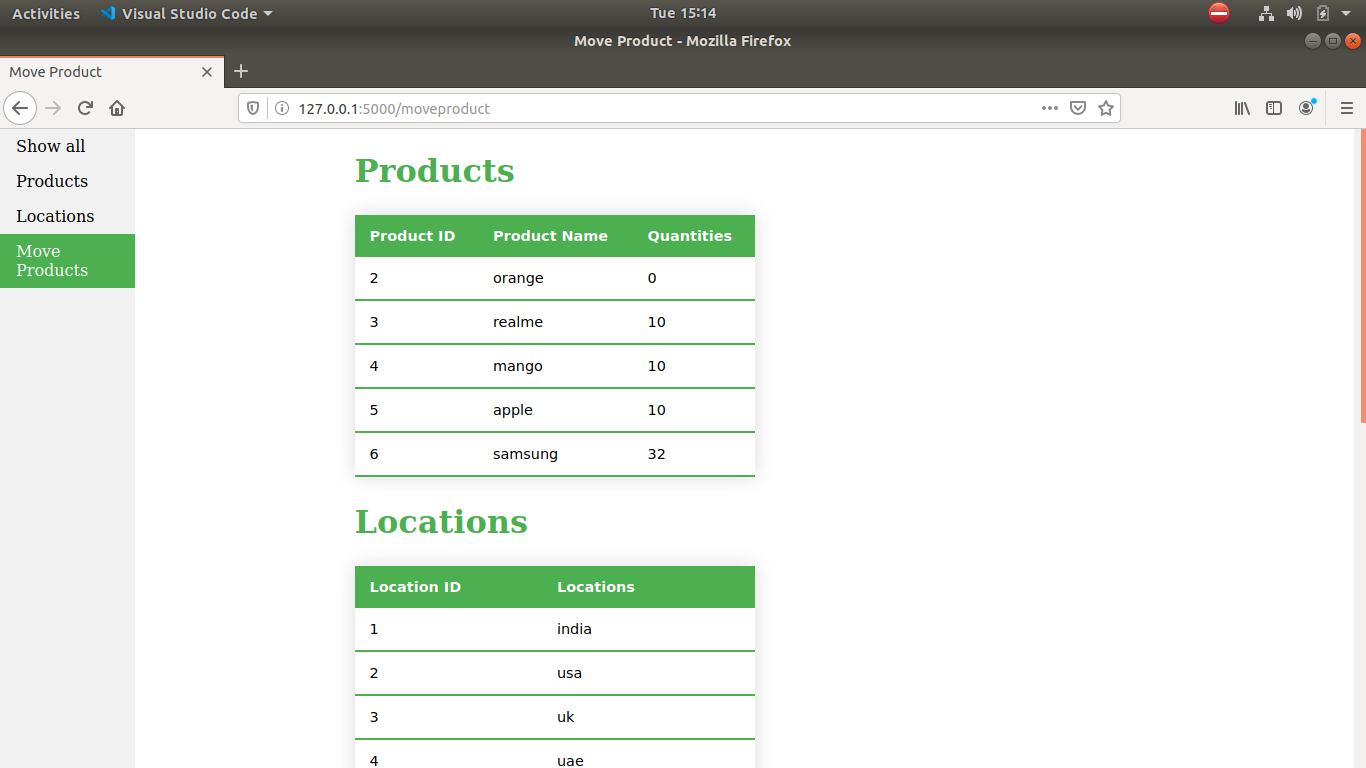
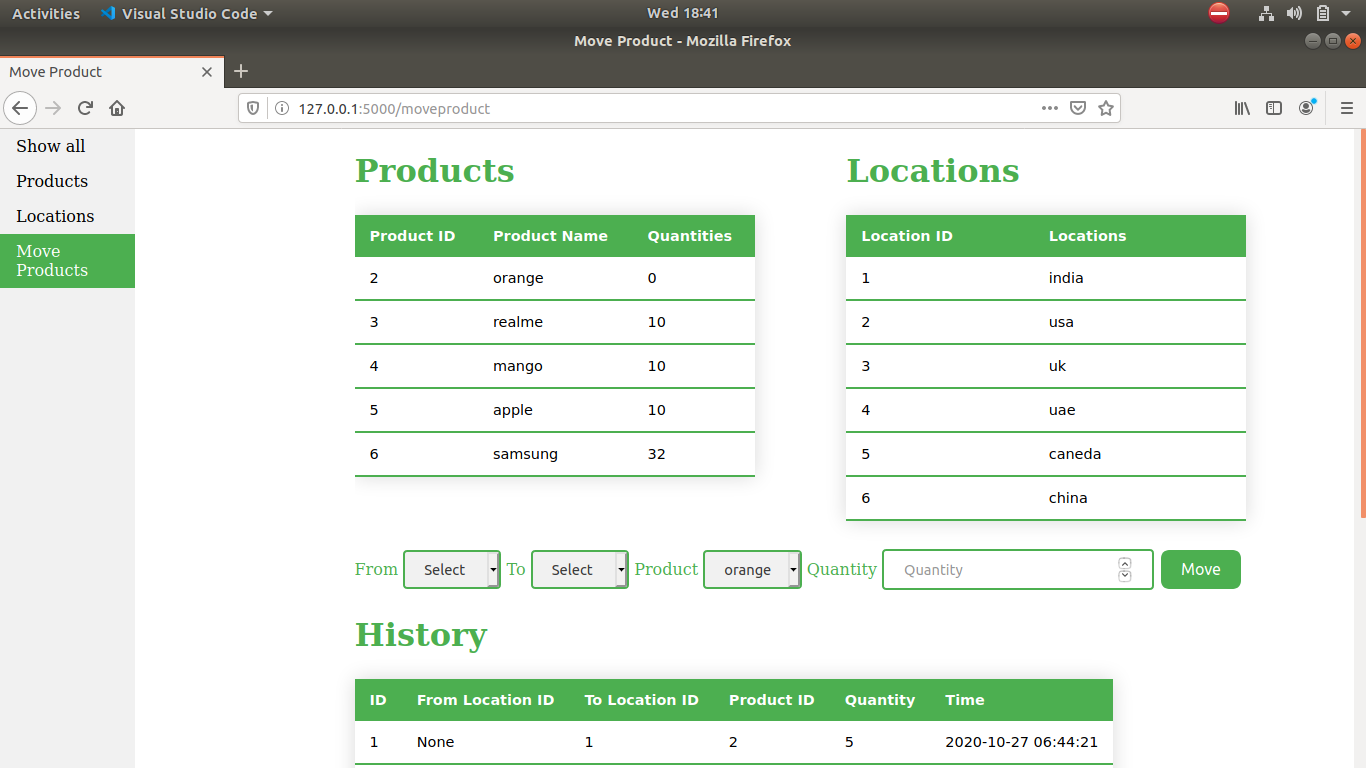
updated

diff --git a/inventory/templates/moveproduct.html b/inventory/templates/moveproduct.html
@@ -15,6 +15,8 @@
         <li><a class="active" href="{{ url_for('move_view') }}">Move Products</a></li>
     </ul>
     <div style="margin-left:25%;padding:1px 16px;height:1000px;">
+        <div class="container">
+        <div class="floatLeft">
         <h1>Products</h1>
 
         <table class="styled-table">
@@ -36,7 +38,8 @@
             </tbody>
         </table>
     
-    
+        </div>
+        <div class="floatRight">
         <h1>Locations</h1>
 
         <table class="styled-table">
@@ -56,6 +59,8 @@
             {% endfor %}
             </tbody>
         </table>
+        </div>
+        </div>
         {% if message %}
         <h3>{{ message }}</h3>
         {% endif %}

diff --git a/inventory/static/main.css b/inventory/static/main.css
@@ -126,3 +126,7 @@ h1{
     font-weight: bold;
     color: #009879;
 }
+
+.floatLeft { width: 50%; float: left; }
+.floatRight {width: 50%; float: right; }
+.container { overflow: hidden; }
